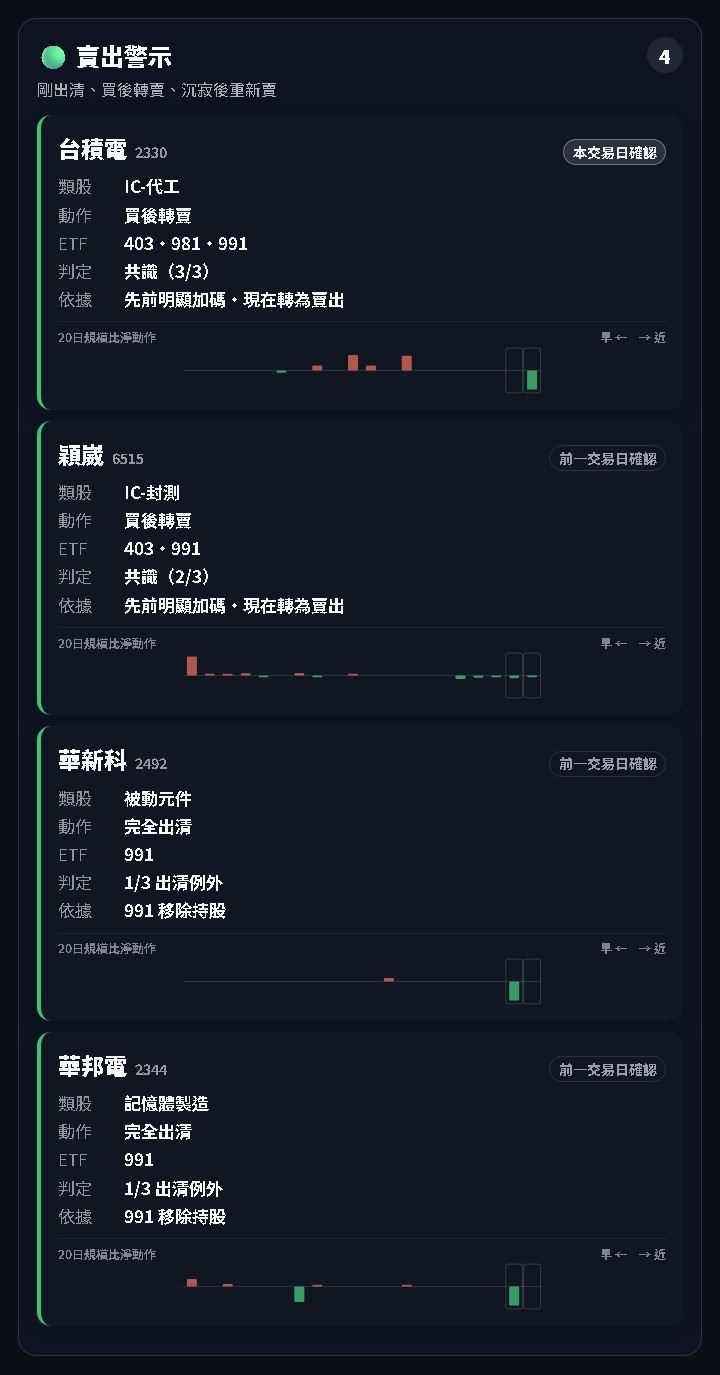
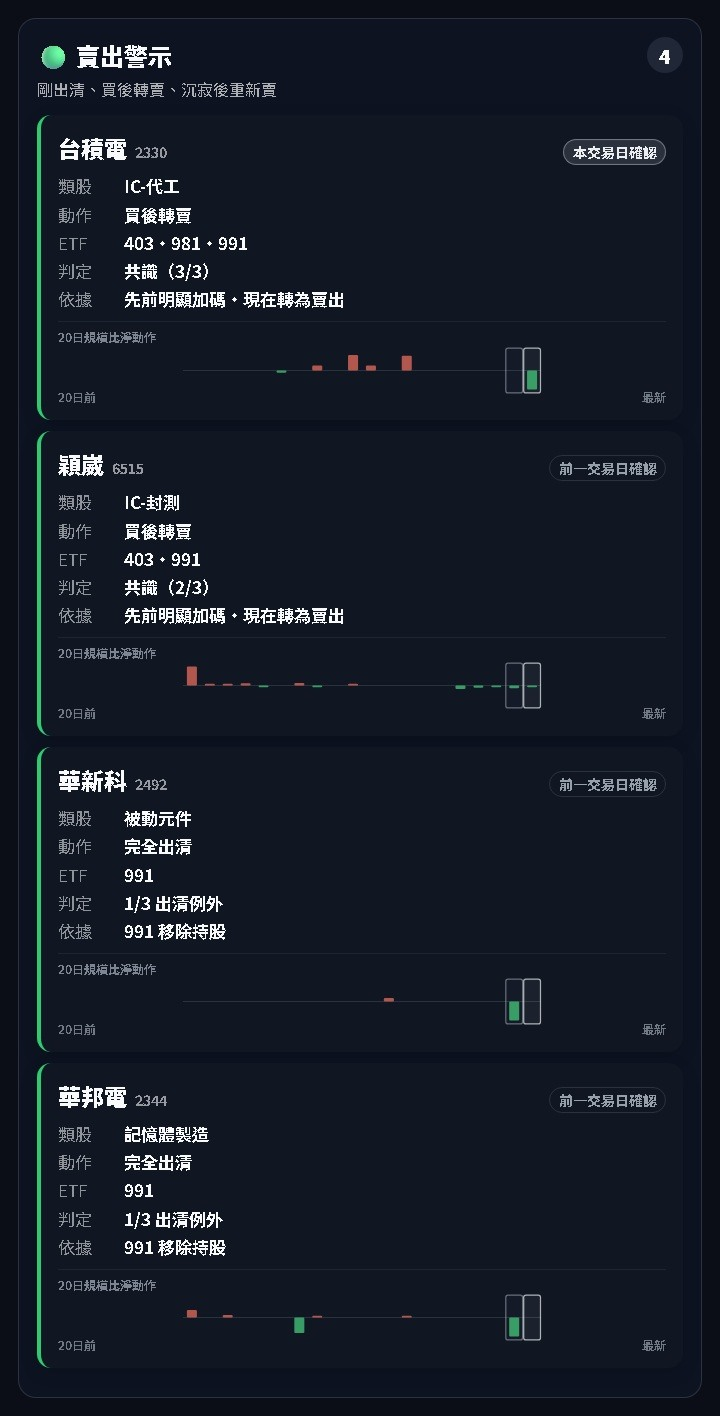
Refine ETF sparkline time markers

diff --git a/src/tag_flow_action_cards.py b/src/tag_flow_action_cards.py
@@ -62,8 +62,15 @@ ACTION_BOARD_CSS = r"""
   margin-bottom:.08rem; color:rgba(203,213,225,.58); font-size:.62rem;
   font-weight:650; line-height:1.2}
 .tfv2-flow-chart {display:block; width:100%; height:2.35rem; overflow:visible}
+.tfv2-flow-time {display:flex; justify-content:space-between; margin-top:-.12rem;
+  color:rgba(203,213,225,.52); font-size:.58rem; font-weight:650;
+  line-height:1.1}
 .tfv2-flow-axis {stroke:rgba(148,163,184,.2); stroke-width:1}
-.tfv2-flow-frame {fill:none; stroke:rgba(226,232,240,.2); stroke-width:.8}
+.tfv2-flow-frame {stroke-width:1.1}
+.tfv2-flow-frame-prior {fill:rgba(226,232,240,.025);
+  stroke:rgba(226,232,240,.42)}
+.tfv2-flow-frame-current {fill:rgba(226,232,240,.055);
+  stroke:rgba(248,250,252,.68)}
 .tfv2-flow-buy {fill:#E76A5C; opacity:.76}
 .tfv2-flow-sell {fill:#45C879; opacity:.76}
 .tfv2-empty {font-size:.82rem; opacity:.66; padding:1.1rem .4rem}
@@ -89,8 +96,13 @@ def _flow_sparkline(event: dict) -> str:
     ]
     for index in range(max(0, len(trend) - 2), len(trend)):
         x = index * slot + 0.5
+        frame_class = (
+            "tfv2-flow-frame-current"
+            if index == len(trend) - 1
+            else "tfv2-flow-frame-prior"
+        )
         elements.append(
-            f'<rect class="tfv2-flow-frame" x="{x:.2f}" y="1" '
+            f'<rect class="tfv2-flow-frame {frame_class}" x="{x:.2f}" y="1" '
             f'width="{max(1.0, slot - 1):.2f}" height="{height - 2:g}" rx="2"/>'
         )
     for index, (row, value) in enumerate(zip(trend, values)):
@@ -110,11 +122,11 @@ def _flow_sparkline(event: dict) -> str:
     chart = "".join(elements)
     return (
         '<div class="tfv2-flow">'
-        '<div class="tfv2-flow-head"><span>20日規模比淨動作</span>'
-        '<span>早 ←　→ 近</span></div>'
+        '<div class="tfv2-flow-head"><span>20日規模比淨動作</span></div>'
         f'<svg class="tfv2-flow-chart" viewBox="0 0 {width:g} {height:g}" '
         f'role="img" aria-label="{escape(str(event.get("name") or ""))}最近20日規模比淨動作">'
-        f'{chart}</svg></div>'
+        f'{chart}</svg><div class="tfv2-flow-time"><span>20日前</span>'
+        '<span>最新</span></div></div>'
     )
 
 

diff --git a/tests/test_etf_action_summary.py b/tests/test_etf_action_summary.py
@@ -66,6 +66,10 @@ class EtfActionSummaryTests(unittest.TestCase):
         self.assertIn("20日規模比淨動作", buy)
         self.assertIn('class="tfv2-flow-chart"', buy)
         self.assertIn("規模比合計</title>", buy)
+        self.assertIn('<span>20日前</span><span>最新</span>', buy)
+        self.assertIn("tfv2-flow-frame-prior", buy)
+        self.assertIn("tfv2-flow-frame-current", buy)
+        self.assertNotIn("早 ←", buy)
         self.assertIn("測試股票0", buy)
         self.assertNotIn("測試股票10", buy)
         self.assertIn("測試股票13", hold)
